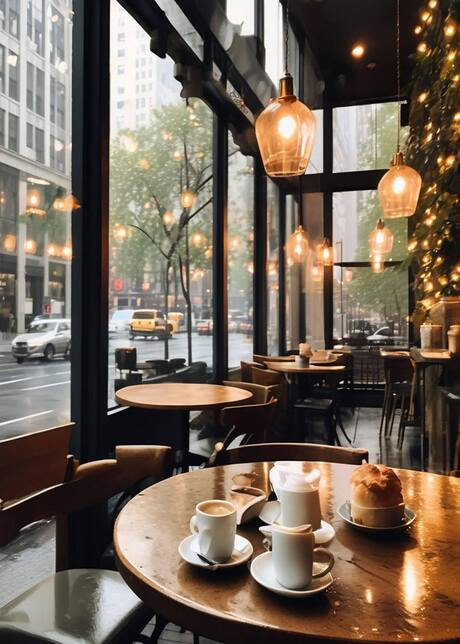
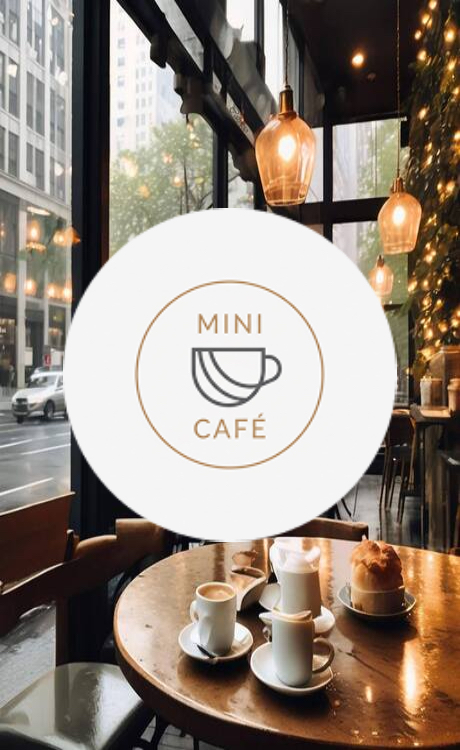
- fix name of frame - fix resolution of images - fix database

Changed region(s): [[0.1217, 0.2795, 0.8826, 0.7453]]

diff --git a/src/main/java/com/mycompany/mini/cafe/frame_login.java b/src/main/java/com/mycompany/mini/cafe/frame_login.java
@@ -21,21 +21,17 @@ public class frame_login extends javax.swing.JFrame {
         initComponents();
         setTitle("Mini-Cafe");
         // Initialize Image 
-        Icon bgLogo = LgnIMG.getIcon();
-        Icon logo = logoIMG.getIcon();
-        Icon rlgn_image1 = r_lgnBG.getIcon();
-
-        ImageIcon logoBG = (ImageIcon) bgLogo;
-        ImageIcon Cafe = (ImageIcon) logo;
-        ImageIcon rlgn_imageicon = (ImageIcon) rlgn_image1;
-
-        Image imageMem = logoBG.getImage().getScaledInstance(LgnIMG.getWidth(), LgnIMG.getHeight(), Image.SCALE_SMOOTH);
-        Image rlgn_mem = rlgn_imageicon.getImage().getScaledInstance(r_lgnBG.getWidth(), r_lgnBG.getHeight(), Image.SCALE_SMOOTH);
-        Image logoMem = Cafe.getImage().getScaledInstance(logoIMG.getWidth(), logoIMG.getHeight(), Image.SCALE_SMOOTH);
-
-        LgnIMG.setIcon(new ImageIcon(imageMem));
-        logoIMG.setIcon(new ImageIcon(logoMem));
-        r_lgnBG.setIcon(new ImageIcon(rlgn_mem));
+//        Icon bgLogo = LgnIMG.getIcon();
+//        Icon rlgn_image1 = r_lgnBG.getIcon();
+//
+//        ImageIcon logoBG = (ImageIcon) bgLogo;
+//        ImageIcon rlgn_imageicon = (ImageIcon) rlgn_image1;
+//
+//        Image imageMem = logoBG.getImage().getScaledInstance(LgnIMG.getWidth(), LgnIMG.getHeight(), Image.SCALE_SMOOTH);
+//        Image rlgn_mem = rlgn_imageicon.getImage().getScaledInstance(r_lgnBG.getWidth(), r_lgnBG.getHeight(), Image.SCALE_SMOOTH);
+//
+//        LgnIMG.setIcon(new ImageIcon(imageMem));
+//        r_lgnBG.setIcon(new ImageIcon(rlgn_mem));
 
     }
 
@@ -53,7 +49,6 @@ public class frame_login extends javax.swing.JFrame {
         password_field = new javax.swing.JPasswordField();
         btnLogin = new javax.swing.JButton();
         r_lgnBG = new javax.swing.JLabel();
-        logoIMG = new javax.swing.JLabel();
         LgnIMG = new javax.swing.JLabel();
 
         jLabel1.setText("jLabel1");
@@ -91,13 +86,10 @@ public class frame_login extends javax.swing.JFrame {
         });
         jPanel2.add(btnLogin, new org.netbeans.lib.awtextra.AbsoluteConstraints(150, 380, 110, 50));
 
-        r_lgnBG.setIcon(new javax.swing.ImageIcon(getClass().getResource("/bg-image.png"))); // NOI18N
+        r_lgnBG.setIcon(new javax.swing.ImageIcon(getClass().getResource("/bg-image.jpg"))); // NOI18N
         jPanel2.add(r_lgnBG, new org.netbeans.lib.awtextra.AbsoluteConstraints(0, 10, 450, 774));
 
         jPanel1.add(jPanel2, new org.netbeans.lib.awtextra.AbsoluteConstraints(460, -10, 450, 760));
-
-        logoIMG.setIcon(new javax.swing.ImageIcon(getClass().getResource("/logo.png"))); // NOI18N
-        jPanel1.add(logoIMG, new org.netbeans.lib.awtextra.AbsoluteConstraints(80, 240, 290, 290));
 
         LgnIMG.setIcon(new javax.swing.ImageIcon(getClass().getResource("/loginIMG.jpg"))); // NOI18N
         jPanel1.add(LgnIMG, new org.netbeans.lib.awtextra.AbsoluteConstraints(0, 0, 460, 750));
@@ -128,7 +120,7 @@ public class frame_login extends javax.swing.JFrame {
             return;
         }
         JOptionPane.showMessageDialog(this, "Login successful! " + role);
-        frame_selection fs = new frame_selection();
+        frame_selection fs = new frame_selection(role);
         fs.setVisible(true);
         this.dispose();
 
@@ -146,7 +138,6 @@ public class frame_login extends javax.swing.JFrame {
     private javax.swing.JLabel jLabel4;
     private javax.swing.JPanel jPanel1;
     private javax.swing.JPanel jPanel2;
-    private javax.swing.JLabel logoIMG;
     private javax.swing.JPasswordField password_field;
     private javax.swing.JLabel r_lgnBG;
     private javax.swing.JTextField username_field;

diff --git a/src/main/java/com/mycompany/mini/cafe/frame_selection.java b/src/main/java/com/mycompany/mini/cafe/frame_selection.java
@@ -13,9 +13,12 @@ public class frame_selection extends javax.swing.JFrame {
     private static final java.util.logging.Logger logger = java.util.logging.Logger.getLogger(frame_selection.class.getName());
     private frame_Table tablePage = null; /** collect table page */
     private frame_Menu menuPage = null; /** collect menu page */
-
     public frame_selection() {
         initComponents();
+    }
+    public frame_selection(String role) {
+        initComponents();
+        label_status.setText(role);
     }
 
     @SuppressWarnings("unchecked")
@@ -30,7 +33,7 @@ public class frame_selection extends javax.swing.JFrame {
         jPanel2 = new javax.swing.JPanel();
         panel_Header = new com.mycompany.UI.CustomHeaderPanel();
         jLabel2 = new javax.swing.JLabel();
-        lable_status = new javax.swing.JLabel();
+        label_status = new javax.swing.JLabel();
 
         setDefaultCloseOperation(javax.swing.WindowConstants.EXIT_ON_CLOSE);
         setBackground(new java.awt.Color(216, 181, 151));
@@ -75,8 +78,8 @@ public class frame_selection extends javax.swing.JFrame {
         jLabel2.setFont(new java.awt.Font("Segoe UI", 1, 24)); // NOI18N
         jLabel2.setText("Welome Back");
 
-        lable_status.setFont(new java.awt.Font("Segoe UI", 1, 24)); // NOI18N
-        lable_status.setText("Custom");
+        label_status.setFont(new java.awt.Font("Segoe UI", 1, 24)); // NOI18N
+        label_status.setText("Custom");
 
         javax.swing.GroupLayout panel_HeaderLayout = new javax.swing.GroupLayout(panel_Header);
         panel_Header.setLayout(panel_HeaderLayout);
@@ -86,7 +89,7 @@ public class frame_selection extends javax.swing.JFrame {
                 .addGroup(panel_HeaderLayout.createParallelGroup(javax.swing.GroupLayout.Alignment.LEADING)
                     .addGroup(panel_HeaderLayout.createSequentialGroup()
                         .addGap(382, 382, 382)
-                        .addComponent(lable_status))
+                        .addComponent(label_status))
                     .addGroup(panel_HeaderLayout.createSequentialGroup()
                         .addGap(355, 355, 355)
                         .addComponent(jLabel2)))
@@ -98,7 +101,7 @@ public class frame_selection extends javax.swing.JFrame {
                 .addContainerGap()
                 .addComponent(jLabel2)
                 .addPreferredGap(javax.swing.LayoutStyle.ComponentPlacement.RELATED)
-                .addComponent(lable_status)
+                .addComponent(label_status)
                 .addContainerGap(27, Short.MAX_VALUE))
         );
 
@@ -173,7 +176,7 @@ public class frame_selection extends javax.swing.JFrame {
     private javax.swing.JLabel jLabel2;
     private javax.swing.JPanel jPanel1;
     private javax.swing.JPanel jPanel2;
-    private javax.swing.JLabel lable_status;
+    private javax.swing.JLabel label_status;
     private com.mycompany.UI.CustomHeaderPanel panel_Header;
     // End of variables declaration//GEN-END:variables
 }

diff --git a/src/main/java/com/mycompany/mini/cafe/AuthService.java b/src/main/java/com/mycompany/mini/cafe/AuthService.java
@@ -9,7 +9,7 @@ public class AuthService {
     public static String login(String username, String password) {
         try (Connection conn = DBConnection.getConnection()) {
 
-            String sql = "SELECT role FROM member WHERE username = ? AND password = ?";
+            String sql = "SELECT * FROM member WHERE username = ? AND password = ?";
             PreparedStatement stmt = conn.prepareStatement(sql);
 
             stmt.setString(1, username);
